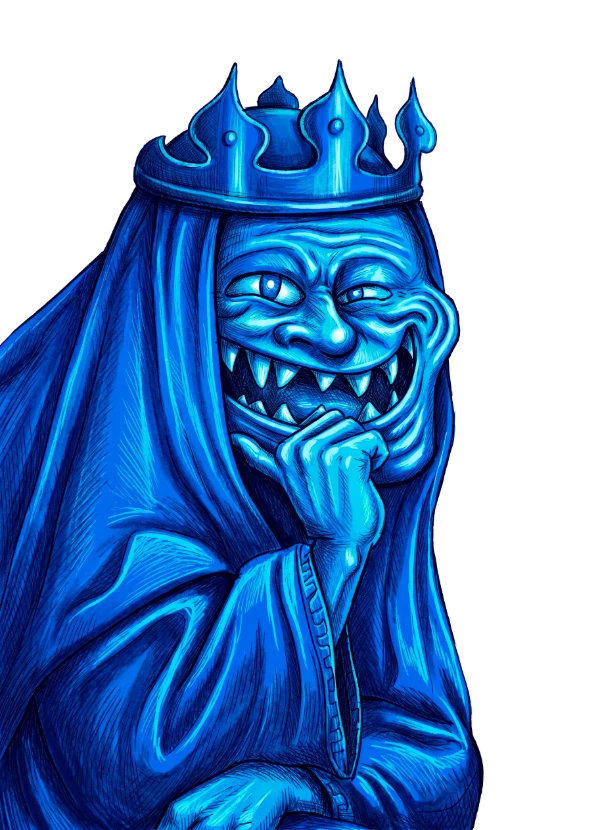
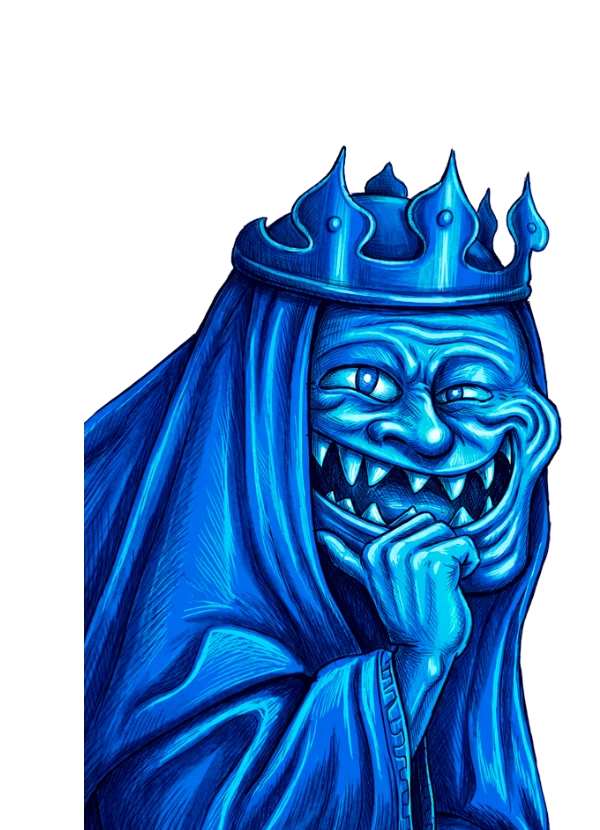
Rei e Rainha de Espadas: artes novas (Rei um pouco menor)

diff --git a/index.html b/index.html
@@ -14,7 +14,7 @@
   <link rel="preload" href="arte/menu/papelao.webp" as="image">
   <link rel="preload" href="arte/menu/naipes.webp" as="image">
   <link rel="preload" href="arte/menu/logo.webp" as="image">
-  <link rel="stylesheet" href="estilo.css?v=202610301932">
+  <link rel="stylesheet" href="estilo.css?v=202610301937">
 </head>
 <body>
   <div id="palco">
@@ -67,20 +67,20 @@
   <div id="modal" hidden></div>
   <div id="dica" hidden></div>
 
-  <script defer src="js/idioma.js?v=202610301932"></script>
-  <script defer src="js/libs.js?v=202610301932"></script>
-  <script defer src="js/motor.js?v=202610301932"></script>
-  <script defer src="js/palhacos.js?v=202610301932"></script>
-  <script defer src="js/pesos.js?v=202610301932"></script>
-  <script defer src="js/bot.js?v=202610301932"></script>
-  <script defer src="js/cartas.js?v=202610301932"></script>
-  <script defer src="js/som.js?v=202610301932"></script>
-  <script defer src="js/dados3d.js?v=202610301932"></script>
-  <script defer src="js/decks.js?v=202610301932"></script>
-  <script defer src="js/regras.js?v=202610301932"></script>
-  <script defer src="js/rede.js?v=202610301932"></script>
-  <script defer src="js/decoracao.js?v=202610301932"></script>
-  <script defer src="js/tutorial.js?v=202610301932"></script>
-  <script defer src="js/interface.js?v=202610301932"></script>
+  <script defer src="js/idioma.js?v=202610301937"></script>
+  <script defer src="js/libs.js?v=202610301937"></script>
+  <script defer src="js/motor.js?v=202610301937"></script>
+  <script defer src="js/palhacos.js?v=202610301937"></script>
+  <script defer src="js/pesos.js?v=202610301937"></script>
+  <script defer src="js/bot.js?v=202610301937"></script>
+  <script defer src="js/cartas.js?v=202610301937"></script>
+  <script defer src="js/som.js?v=202610301937"></script>
+  <script defer src="js/dados3d.js?v=202610301937"></script>
+  <script defer src="js/decks.js?v=202610301937"></script>
+  <script defer src="js/regras.js?v=202610301937"></script>
+  <script defer src="js/rede.js?v=202610301937"></script>
+  <script defer src="js/decoracao.js?v=202610301937"></script>
+  <script defer src="js/tutorial.js?v=202610301937"></script>
+  <script defer src="js/interface.js?v=202610301937"></script>
 </body>
 </html>

diff --git a/js/cartas.js b/js/cartas.js
@@ -34,7 +34,7 @@ window.SS = window.SS || {};
   // Borda preta na beirada da carta: a do desenho é fina demais (cerca de 1 px numa carta da mão) e sumia.
   const BORDA = '<rect x="2.2" y="2.2" width="195.6" height="275.6" rx="15" fill="none" stroke="#141414" stroke-width="4.5"/>';
   // Versão das imagens das cartas (trocar quando um arquivo mudar com o mesmo nome, para o navegador não usar o antigo).
-  const V_ARTE = '?v=13';
+  const V_ARTE = '?v=14';
 
   // Fundo da carta: o creme liso de sempre. Com fundos desenhados (arte/cartas/fundo-<letra>.webp, feitos no gabarito
   // arte/cartas/gabarito), ponha as letras deles aqui: cada carta pega sempre a mesma variação (rank + naipe).
